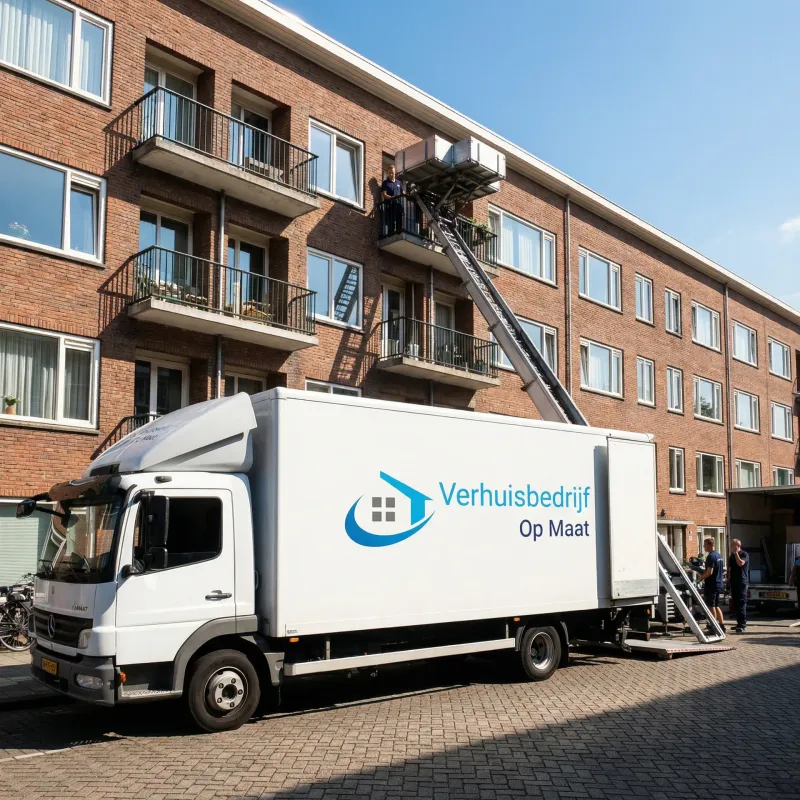
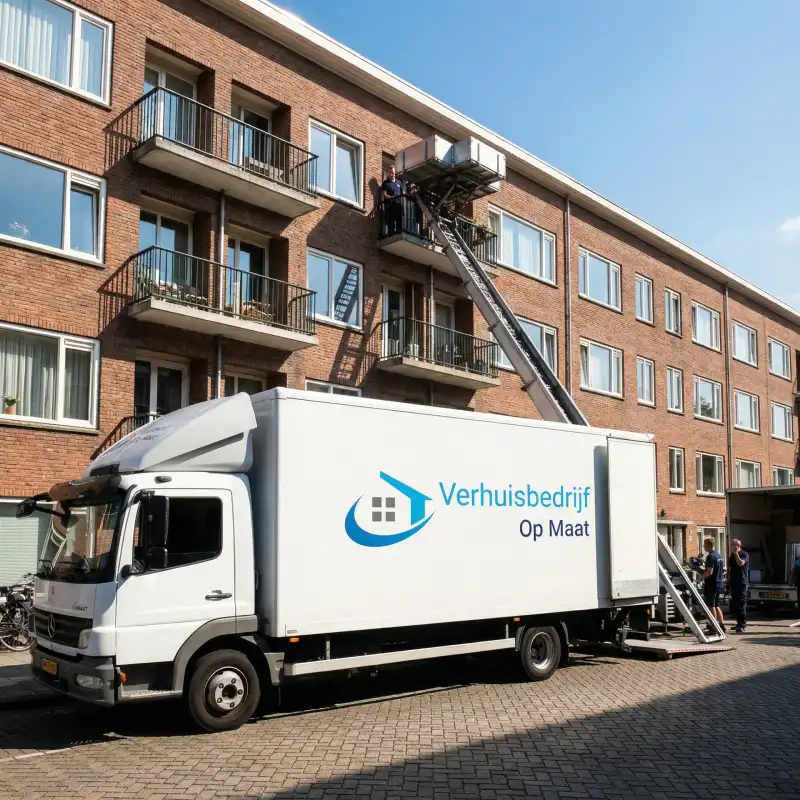
Hercomprimeer 800w beelden vanaf bron (-33%), fix forced reflow nav
- 800w afbeeldingen opnieuw gegenereerd vanuit origineel bij quality 55
- hero-header-800w: 58KB → 39KB (-33%)
- Alle 24 service/hero beelden gemiddeld 33% kleiner
- main.js: handleNavPlacement via requestAnimationFrame uitgesteld
  zodat het de LCP render niet meer blokkeert (was 103ms forced reflow)

diff --git a/js/main.js b/js/main.js
@@ -25,7 +25,7 @@
       }
     }
   }
-  handleNavPlacement();
+  requestAnimationFrame(handleNavPlacement);
   window.addEventListener('resize', handleNavPlacement);
 
   if (hamburger && nav) {
